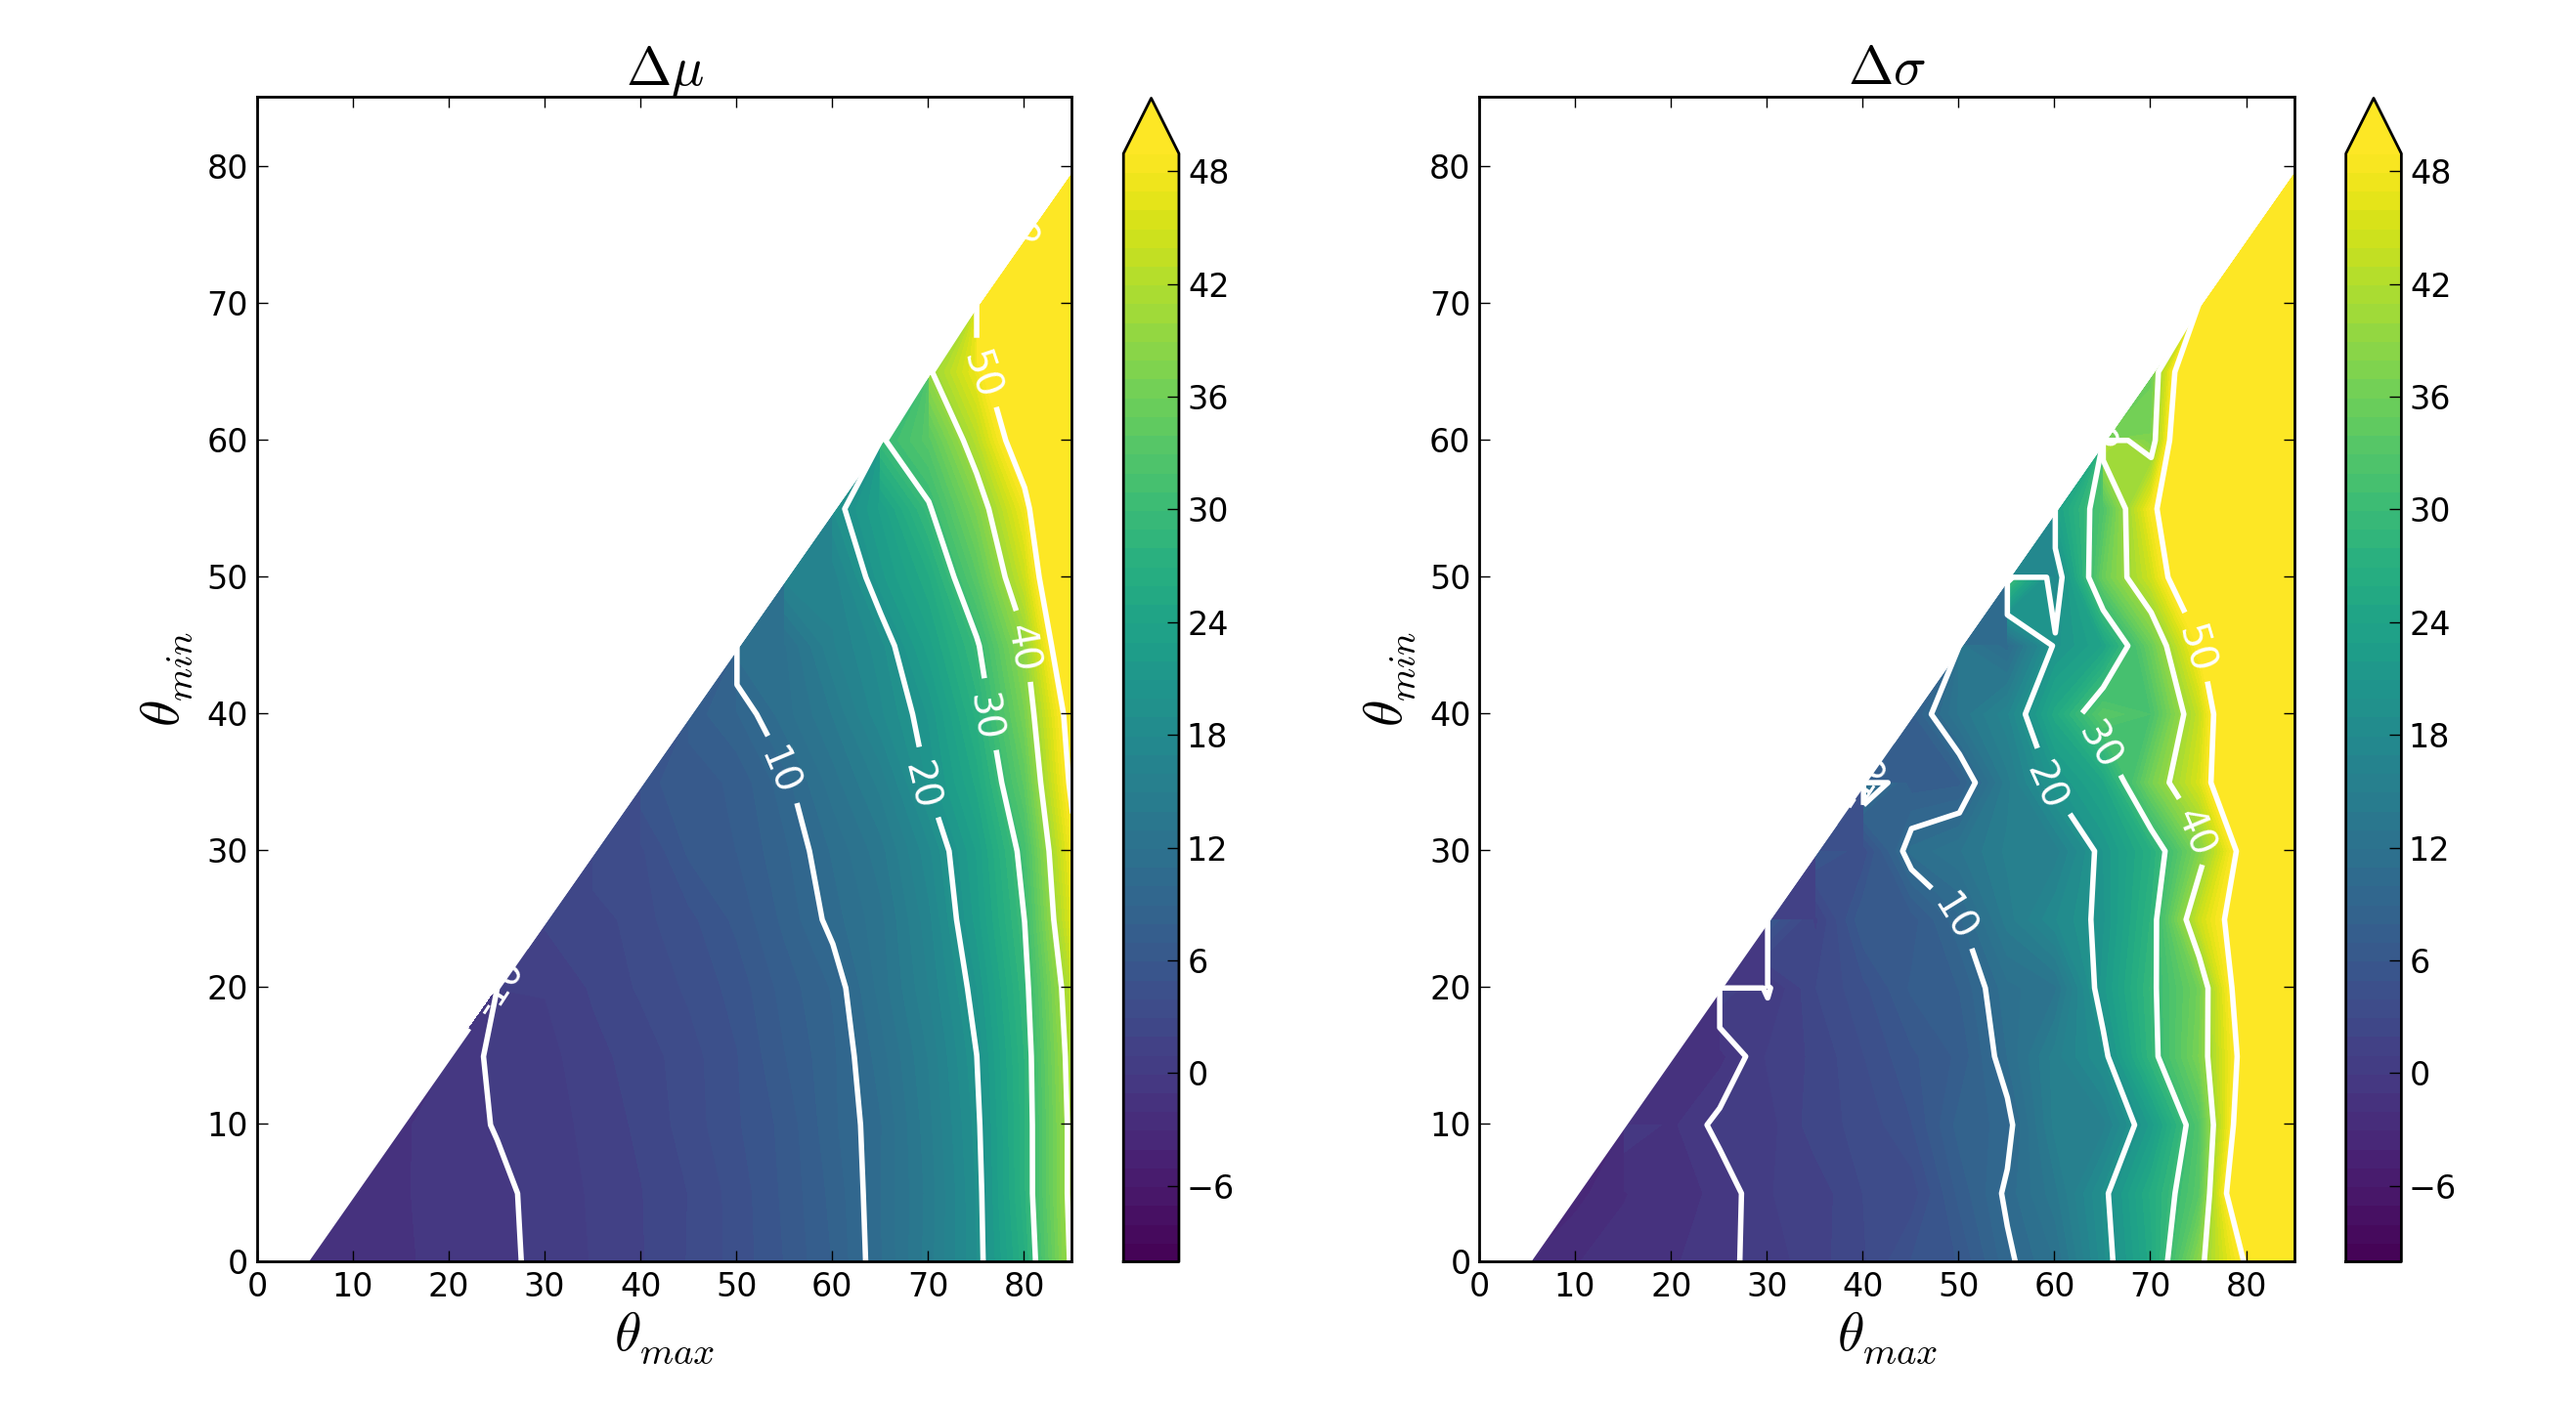
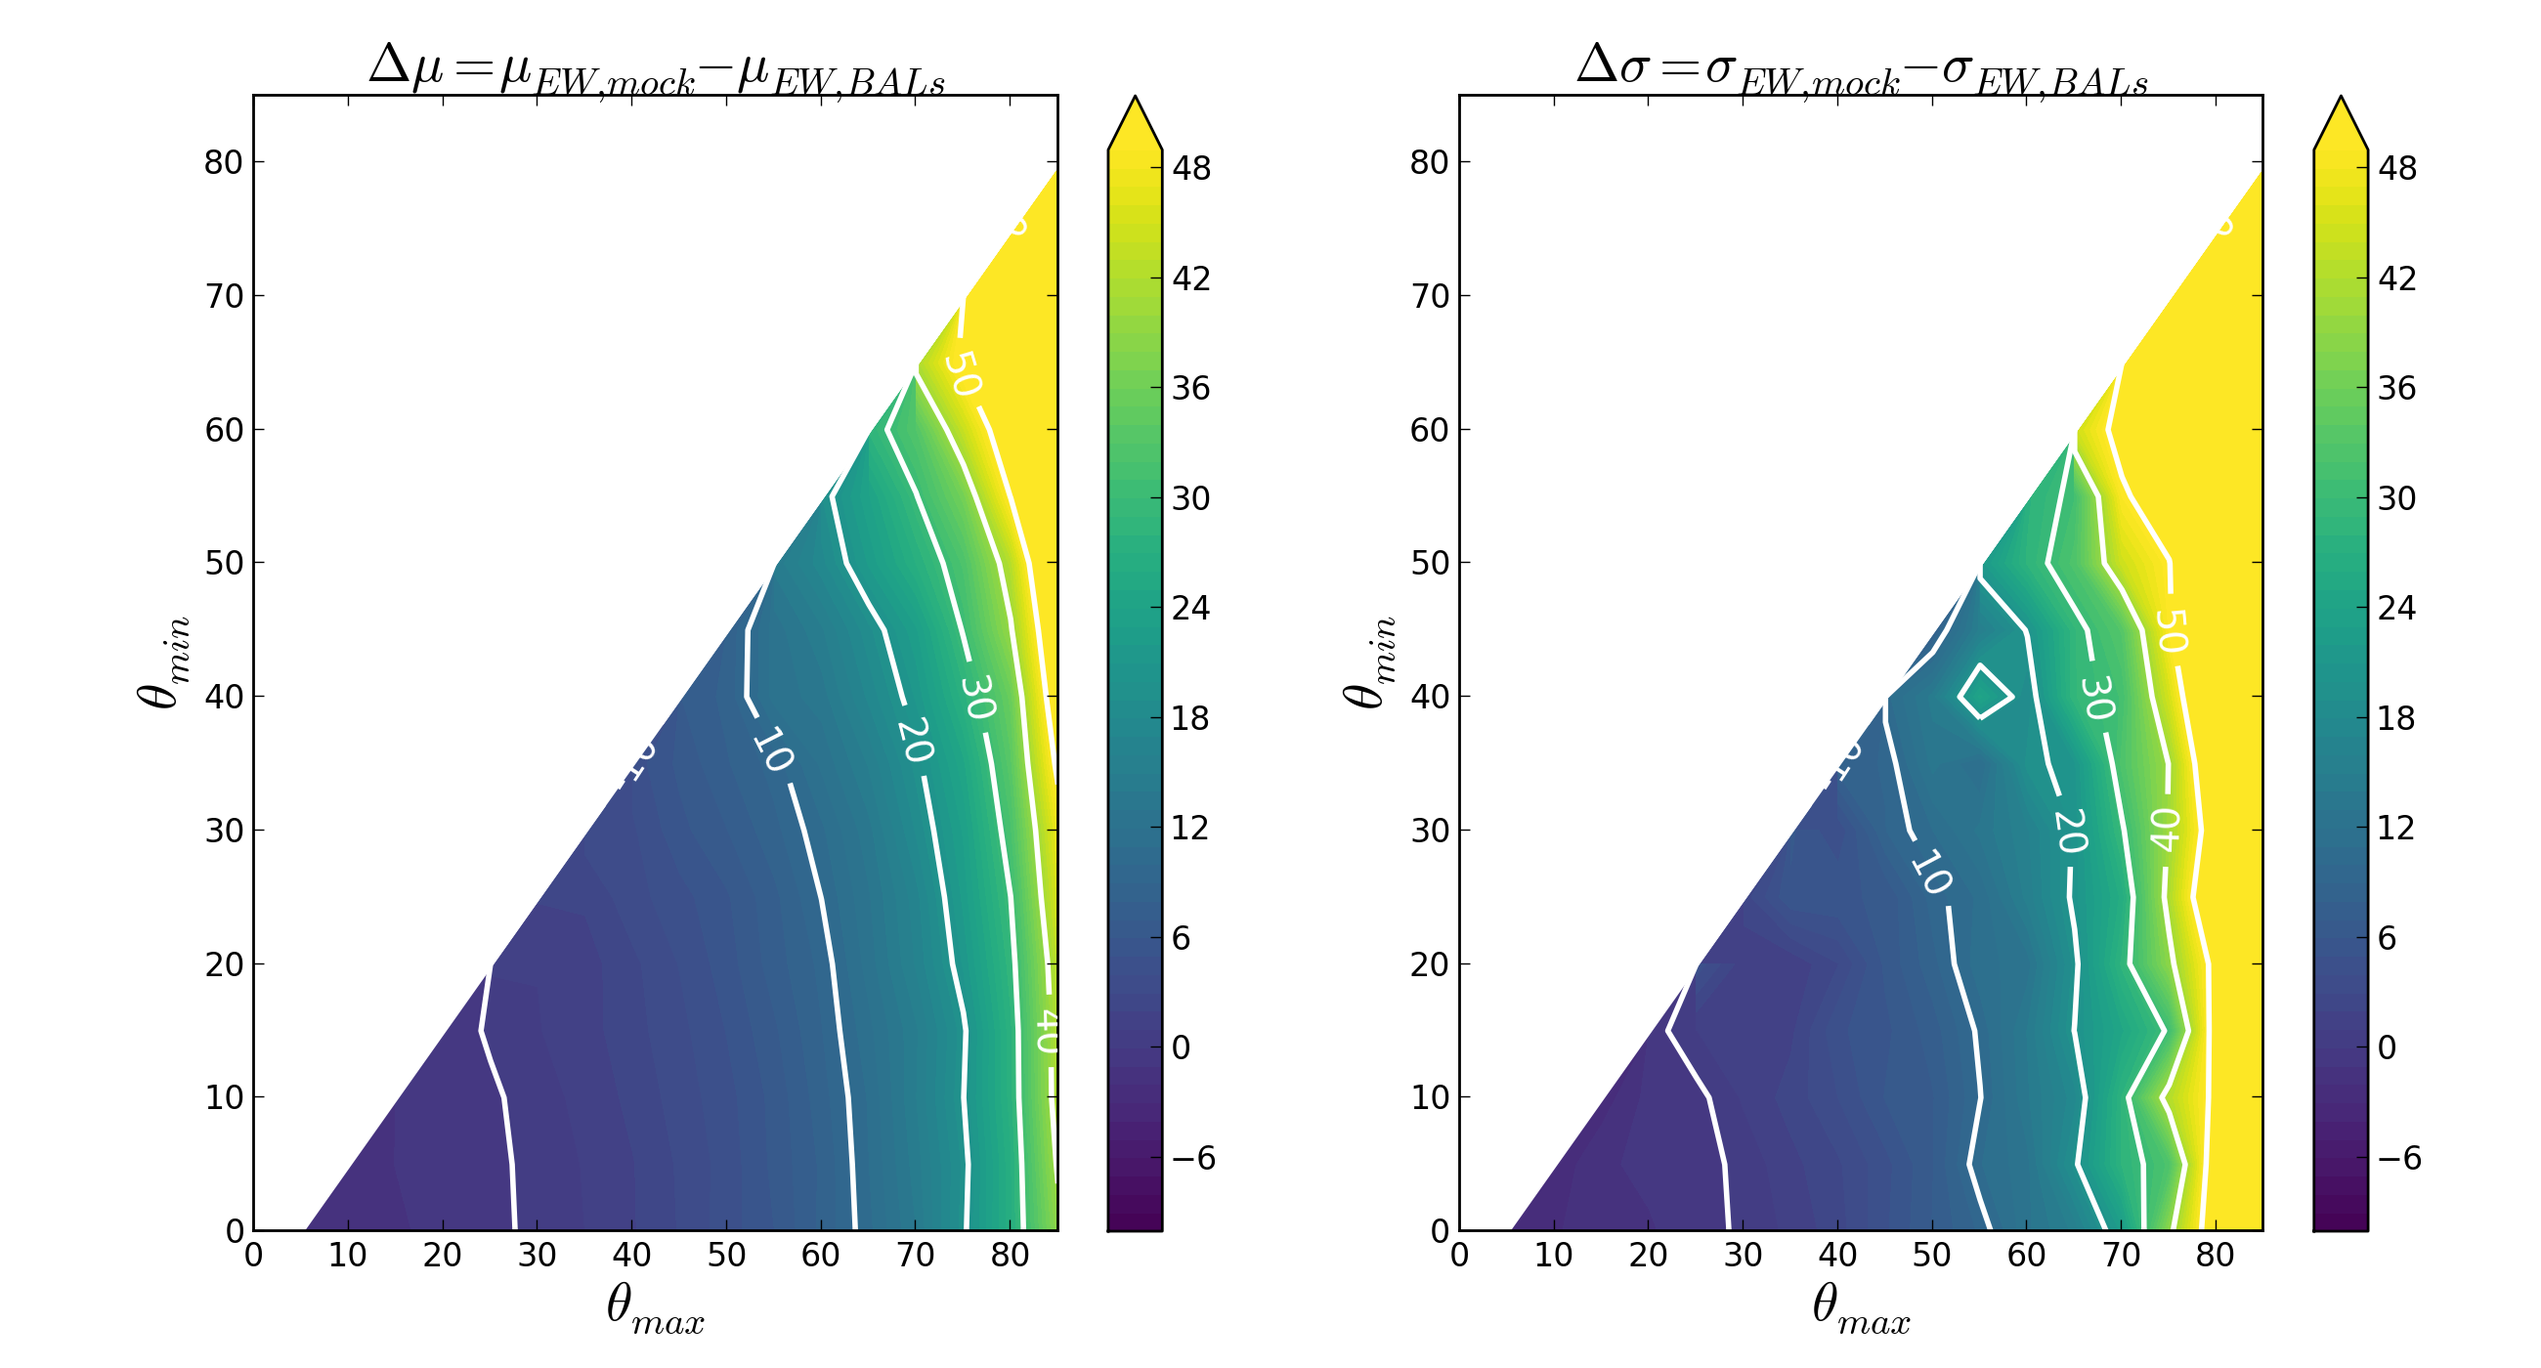
some mods

diff --git a/ew_stats/ew_stats_main.py b/ew_stats/ew_stats_main.py
@@ -16,6 +16,7 @@ import matplotlib.mlab as mlab
 import sdss_sub_data as sub
 from matplotlib.colors import LinearSegmentedColormap
 
+colors = get_colors()
 
 def get_dist(z):
 
@@ -131,16 +132,20 @@ class simulation:
 	'''
 	a class which contains a set of quantities for different angles 
 	which are measures of how well that specific model did compared
-	to the data
-
-	UNFINISHED
+	to the data. Also allows one to run the sim.
 	'''
 
 	def __init__(self, thetamin, thetamax, data):
 
 		'''
-		shape	array-like
-		NPTS 	integer
+		thetamin 	array-like
+					array of thetamins used 
+
+		thetamax 	array-like
+					array of thetamaxes used 
+
+		data 		dictionary
+					data read in from the SDSS quasar catalog 
 		'''
 
 		shape = (len(thetamin), len(thetamax))
@@ -202,18 +207,27 @@ class simulation:
 					print '------------------'
 
 					# record the values in some arrays
-					self.ks_p_value[i,j] = stats.ks_2samp(mock_data[select_mock_bals], ews[select.general*select.mgbal])[1]
+					self.ks_p_value[i,j] = stats.ks_2samp(self.mock_data[select_mock_bals], ews[select.general*select.mgbal])[1]
 					self.f_bal[i,j] = bal_frac
 
 					# store the standard dev and mean of the dataset
 					self.std_dev[i,j] = np.std(mock_data[select_mock_bals])
 					self.mean[i,j] = np.mean(mock_data[select_mock_bals])
 
+					figure()
+					hist(np.log10(ews[select.general*select.mgbal]), normed=True, facecolor=colors[0], alpha=0.5, bins=np.arange(-2,3,0.1))
+					hist(np.log10(mock_data[select_mock_bals]), normed=True, facecolor=colors[1], alpha=0.5, bins=np.arange(-2,3,0.1))
+					savefig("hist_%i_%i.png" % (thmin, thmax), dpi=100)
+					clf()
 
 					print bal_frac, self.ks_p_value[i,j]
 					print 
 
 		return 0
+
+
+
+
 		
 
 def plot_contour(sim):
@@ -228,7 +242,10 @@ def plot_contour(sim):
 	figure(figsize=(13,7))
 	subplot(1,2,1)
 
-	contourf(sim.thetamax, sim.thetamin, np.log10(sim.ks_test), extend='both', levels=np.arange(-20,0,0.5), cmap=cm_use)
+	sim.ks_p_value = np.ma.masked_array(sim.ks_p_value, mask=(sim.ks_p_value == 0) )
+	sim.f_bal = np.ma.masked_array(sim.f_bal, mask=(sim.f_bal == 0) )
+
+	contourf(sim.thetamax, sim.thetamin, np.log10(sim.ks_p_value), extend='both', levels=np.arange(-20,0,0.5), cmap=cm_use)
 	#contour(thetamax, thetamins, np.log10(ks_test), levels=np.log10(np.array([0.001,0.05,0.32])), c="k")
 	ylabel(r"$\theta_{min}$", fontsize=20)
 	xlabel(r"$\theta_{max}$", fontsize=20)
@@ -262,8 +279,8 @@ def plot_contour2(sim):
 	mu = np.mean(d_use)
 	sigma = np.std(d_use)
 
-	sim.mean[(sim.mean == 0)] = -1e50
-	sim.std_dev[(sim.std_dev == 0)] = -1e50
+	sim.mean = np.ma.masked_array(sim.mean, mask=(sim.mean == 0) )
+	sim.std_dev = np.ma.masked_array(sim.std_dev, mask=(sim.std_dev == 0) )
 
 	cm_use=get_viridis()
 	# below here it's just plotting...
@@ -278,7 +295,7 @@ def plot_contour2(sim):
 
 	ylabel(r"$\theta_{min}$", fontsize=20)
 	xlabel(r"$\theta_{max}$", fontsize=20)
-	title(r"$\Delta \mu$", fontsize=20)
+	title(r"$\Delta \mu = \mu_{EW,mock} - \mu_{EW,BALs}$", fontsize=20)
 
 	subplot(1,2,2)
 	contourf(sim.thetamax, sim.thetamin, sim.std_dev - sigma, extend="max", cmap=cm_use, levels=np.arange(-10,50,1))
@@ -290,7 +307,7 @@ def plot_contour2(sim):
 	
 	ylabel(r"$\theta_{min}$", fontsize=20)
 	xlabel(r"$\theta_{max}$", fontsize=20)
-	title(r"$\Delta \sigma$", fontsize=20)
+	title(r"$\Delta \sigma = \sigma_{EW,mock} - \sigma_{EW,BALs}$", fontsize=20)
 
 	subplots_adjust(left=0.1,right=0.97,top=0.93)
 	savefig("contour2.png", dpi=200)
@@ -321,4 +338,5 @@ if __name__ == "__main__":
 	sim.run(select)
 
 	# make the contour plots
+	plot_contour(sim)
 	plot_contour2(sim)
